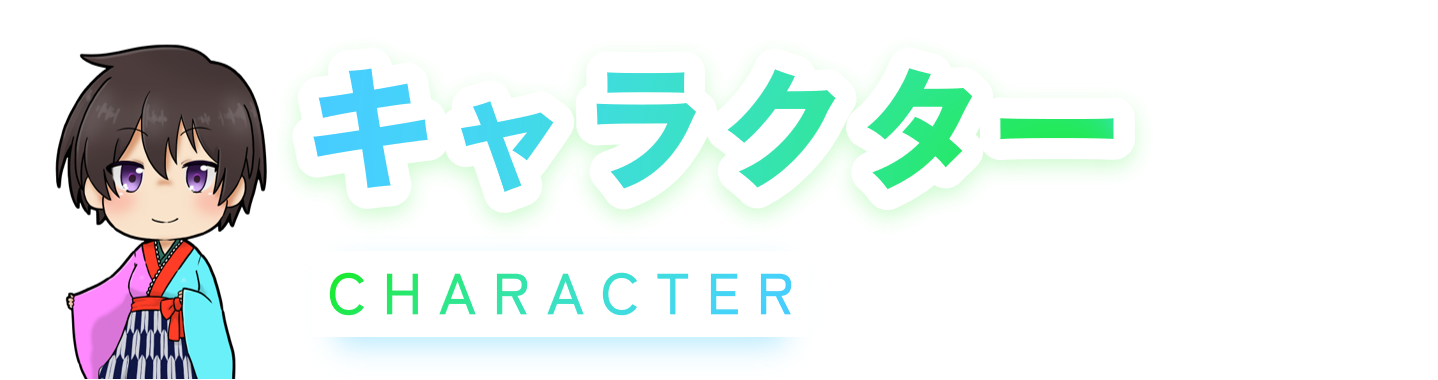
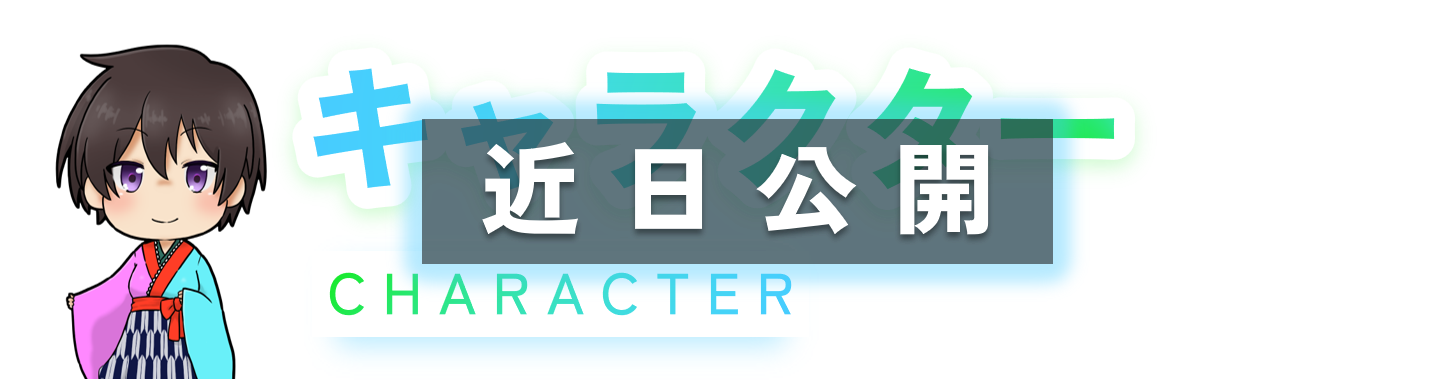
ナビゲーション修正

Changed region(s): [[0.2754, 0.2316, 0.765, 0.7526]]

diff --git a/components/SongDetail.vue b/components/SongDetail.vue
@@ -6,7 +6,7 @@ const props = defineProps<{
 }>()
 
 const jacketSrc = computed<string>(() => {
-  const size = Math.min(320, props.song.jacket.width)
+  const size = Math.min(640, props.song.jacket.width)
   return `${props.song.jacket.url}?w=${size}`
 })
 
@@ -63,10 +63,46 @@ const levels = computed<LevelInfo[]>(() => {
       </div>
     </div>
 
+    <div class="detail">
+      <label>ILLUSTRATOR</label>
+      {{ props.song.illustrator }}
+    </div>
+
+    <div class="detail">
+      <label>BPM</label>
+      {{ props.song.dispbpm }}
+    </div>
+
+    <div class="detail">
+      <label>収録タイトル</label>
+
+      <div class="detail-badges">
+        <!-- 音札(AC) -->
+        <UBadge v-if="props.song.for_ac" variant="subtle" class="badge">
+          <UIcon name="i-heroicons-musical-note" />
+          音札
+        </UBadge>
+        <UBadge v-else color="gray" variant="soft" class="badge --d">
+          <UIcon name="i-heroicons-minus" />
+          音札
+        </UBadge>
+
+        <!-- 音札Étude -->
+        <UBadge v-if="props.song.for_mb" color="teal" variant="subtle" class="badge">
+          <UIcon name="i-heroicons-musical-note" />
+          音札Étude
+        </UBadge>
+        <UBadge v-else color="gray" variant="soft" class="badge --d">
+          <UIcon name="i-heroicons-minus" />
+          音札Étude
+        </UBadge>
+      </div>
+    </div>
+
     <div class="links">
       <UButton
-        v-if="$props.song.youtube_music"
-        :to="$props.song.youtube_music"
+        v-if="props.song.youtube_music"
+        :to="props.song.youtube_music"
         target="_blank"
         color="primary"
         variant="outline"
@@ -76,8 +112,8 @@ const levels = computed<LevelInfo[]>(() => {
         <UIcon name="i-heroicons-arrow-top-right-on-square" />
       </UButton>
       <UButton
-        v-if="$props.song.youtube_chart"
-        :to="$props.song.youtube_chart"
+        v-if="props.song.youtube_chart"
+        :to="props.song.youtube_chart"
         target="_blank"
         color="rose"
         variant="outline"
@@ -123,6 +159,8 @@ const levels = computed<LevelInfo[]>(() => {
       </div>
     </div>
 
+    <ShareButtons :text="props.song.name" />
+
     <div class="menu">
       <UButton
         icon="i-heroicons-arrow-left"
@@ -147,6 +185,7 @@ const levels = computed<LevelInfo[]>(() => {
   .jacket {
     width: 320px;
     max-width: 100%;
+    aspect-ratio: 1;
     border-radius: 1.5rem;
     justify-self: center;
     margin-bottom: 1.5rem;
@@ -179,6 +218,46 @@ const levels = computed<LevelInfo[]>(() => {
     }
   }
 
+  .detail {
+    justify-self: center;
+    margin-bottom: 1rem;
+    display: flex;
+    flex-direction: column;
+    align-items: center;
+
+    label {
+      width: 6rem;
+      font-size: 0.7rem;
+      text-align: center;
+      padding: 0.125rem;
+      background: $border;
+      clip-path: polygon(
+        0% 50%,
+        10% 0,
+        90% 0,
+        100% 50%,
+        100% 50%,
+        90% 100%,
+        10% 100%,
+        0% 50%
+      );
+    }
+
+    .detail-badges {
+      display: flex;
+      gap: 0.5rem;
+      margin-top: 0.5rem;
+
+      .badge {
+        gap: 0.25rem;
+
+        &.--d {
+          opacity: 0.5;
+        }
+      }
+    }
+  }
+
   .links {
     justify-self: center;
     margin-bottom: 2rem;
@@ -208,7 +287,7 @@ const levels = computed<LevelInfo[]>(() => {
         padding: 0.5rem;
         border: 0.2rem solid rgba($bg, 0.75);
         border-radius: 0.5rem;
-        box-shadow: 0 0.25rem 0.75rem 0 rgba($text, 0.25);
+        box-shadow: 0 0.75rem 0.75rem -0.5rem rgba($text, 0.25);
       }
 
       &:nth-child(1) .level-number {
@@ -271,6 +350,10 @@ const levels = computed<LevelInfo[]>(() => {
         padding: 0.25rem 0.5rem;
       }
     }
+  }
+
+  .share {
+    margin-bottom: 2rem;
   }
 
   .menu {

diff --git a/components/NavLinkList.vue b/components/NavLinkList.vue
@@ -1,14 +1,15 @@
 <script lang="ts" setup>
 interface NavLink {
   title: string;
-  class?: string;
+  class: string;
   url: string;
+  disabled?: boolean;
 }
 
 const navLinks: NavLink[] = [
   { title: 'TOP', class: 'top', url: '/' },
   { title: 'お知らせ', class: 'news', url: '/news' },
-  { title: 'キャラクター', class: 'character', url: '/characters' },
+  { title: 'キャラクター', class: 'character', url: '/characters', disabled: true },
   { title: '収録楽曲', class: 'songs', url: '/songs' },
   { title: 'マンガ', class: 'comics', url: '/comics' }
 ]
@@ -21,8 +22,8 @@ const emit = defineEmits<{(e: 'close-nav'): void}>()
     <ul>
       <li v-for="(link, i) in navLinks" :key="`navlink-${i}`">
         <NuxtLink
-          :to="link.url"
-          :class="`--${link.class || 'other'}`"
+          :to="link.disabled ? undefined : link.url"
+          :class="`--${link.class}`"
           @click="emit('close-nav')"
         >
           {{ link.title }}
@@ -66,6 +67,7 @@ ul {
       }
 
       &.--character {
+        opacity: 0.5;
         background-image: url("~/assets/nav/character_1.png");
 
         &.router-link-active {

diff --git a/pages/comics/[...id].vue b/pages/comics/[...id].vue
@@ -33,17 +33,18 @@ const title = ref(content.value?.title)
       Loading...
     </div>
 
-    <div v-else-if="content">
+    <div v-else-if="content" class="comic-img">
       <img
         :src="content.image.url"
         :alt="title"
-        class="comic-img"
       >
     </div>
 
     <div v-else class="error">
       マンガが見つかりません
     </div>
+
+    <ShareButtons v-if="content" :text="content.title" />
 
     <div class="comic-menu">
       <UButton
@@ -61,12 +62,23 @@ const title = ref(content.value?.title)
 <style lang="scss" scoped>
 .comic {
   .comic-img {
-    width: calc(100% - 2rem);
-    max-width: 400px;
-    margin: 1rem;
+    display: flex;
+    justify-content: center;
+    margin: 2rem 0;
+
+    img {
+      width: calc(100% - 2rem);
+      max-width: 400px;
+    }
+  }
+
+  .share {
+    margin-bottom: 1rem;
   }
 
   .comic-menu {
+    display: flex;
+    justify-content: center;
     padding: 1rem;
   }
 }

diff --git a/layouts/default.vue b/layouts/default.vue
@@ -57,7 +57,7 @@ const showSpNav = ref<boolean>(false)
       音札ポータルは、アーケード版「音札」やスマホ・PCで遊べる「音札Étude」の最新情報をお届けするポータルサイトです。
 
       <div class="banners">
-        <a href="https://j.mp/otofuda" target="_blank" rel="noopener noreferrer">
+        <a href="https://arcade.otofuda.com" target="_blank" rel="noopener noreferrer">
           <img src="~/assets/banners/banner_hp.png" alt="音札公式ホームページ">
         </a>
         <a href="https://www.youtube.com/@user-iw6ic4jl4b" target="_blank" rel="noopener noreferrer">

diff --git a/pages/characters/index.vue b/pages/characters/index.vue
@@ -10,6 +10,17 @@ const title = ref('キャラクター')
 
     <HeadingTitle>{{ title }}</HeadingTitle>
 
-    <p>🏗 工事中</p>
+    <p class="caution">
+      🏗 このページは工事中です
+    </p>
   </div>
 </template>
+
+<style lang="scss" scoped>
+.characters {
+  .caution {
+    text-align: center;
+    margin-top: 2rem;
+  }
+}
+</style>

diff --git a/components/TheHero.vue b/components/TheHero.vue
@@ -45,7 +45,7 @@ onUnmounted(() => {
     </div>
 
     <div class="buttons">
-      <a href="https://j.mp/otofuda" target="_blank">
+      <a href="https://arcade.otofuda.com" target="_blank">
         <img class="--arcade" src="~/assets/button_arcade.png">
       </a>
       <a href="https://etude.otofuda.com/" target="_blank">

diff --git a/components/ShareButtons.vue b/components/ShareButtons.vue
@@ -11,7 +11,7 @@ const onTweet = () => {
 
 <template>
   <div class="share">
-    <UBadge color="gray" variant="soft">
+    <UBadge color="gray">
       共有
     </UBadge>
     <!-- X(Twitter) -->
